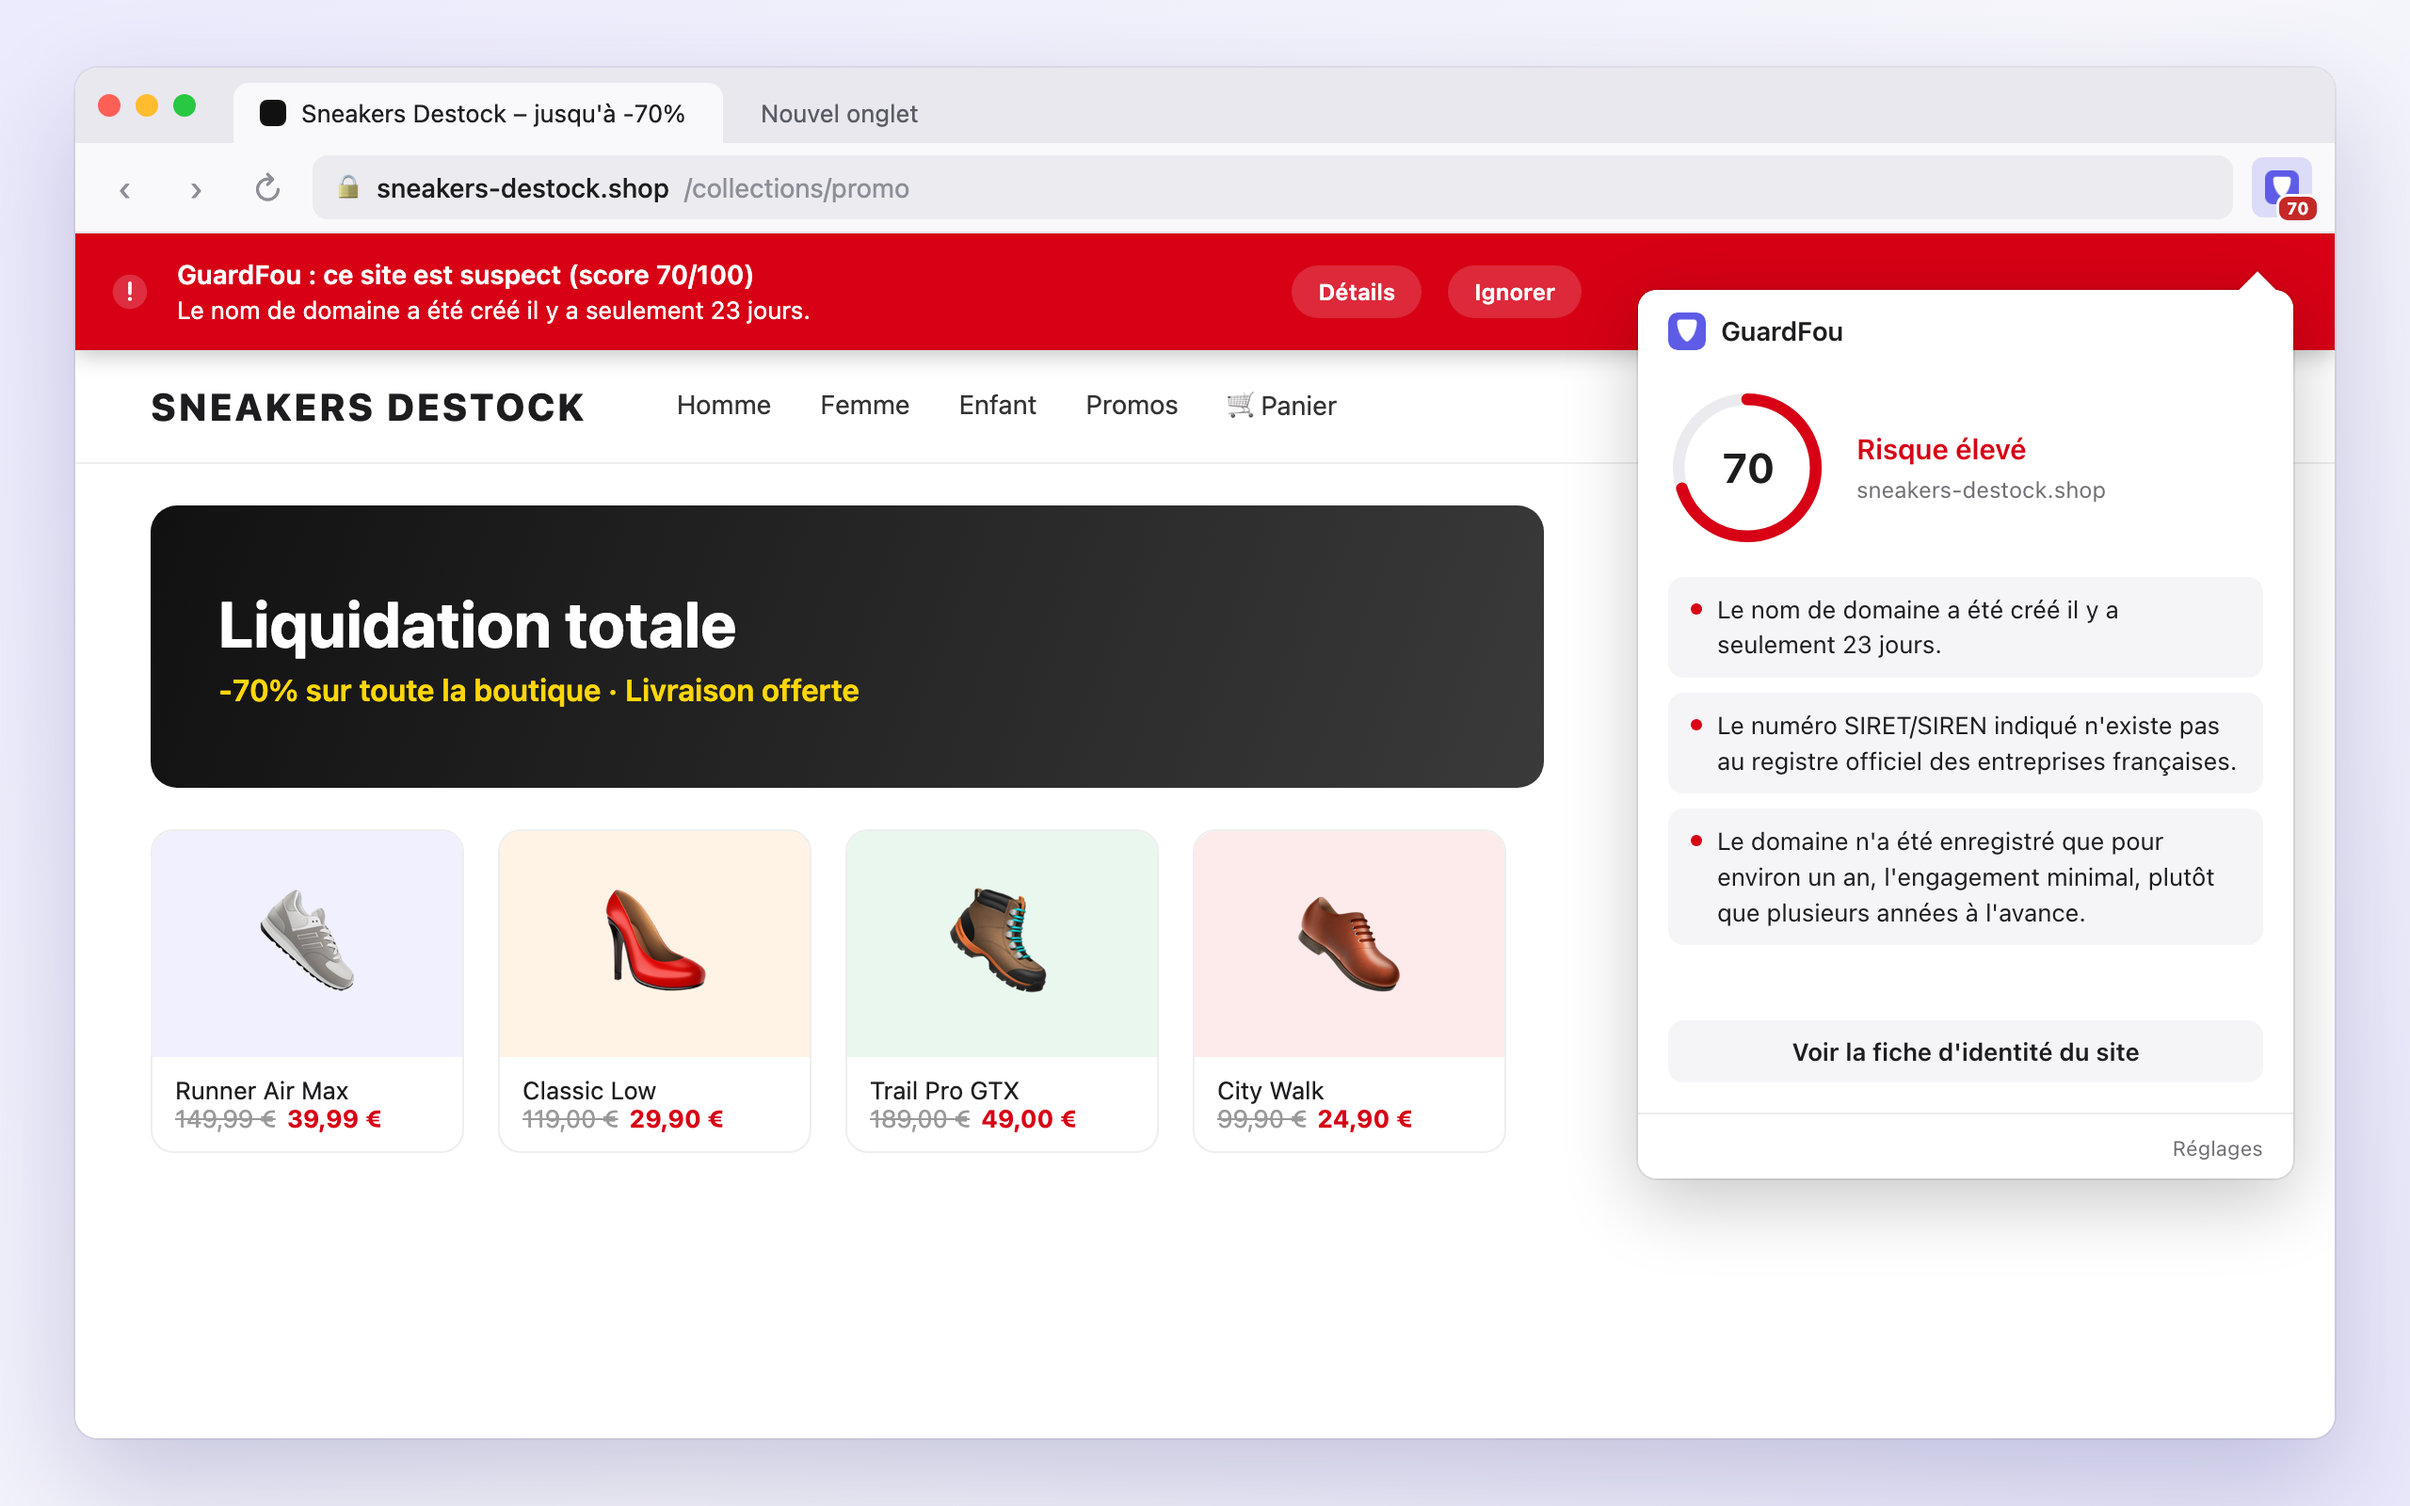
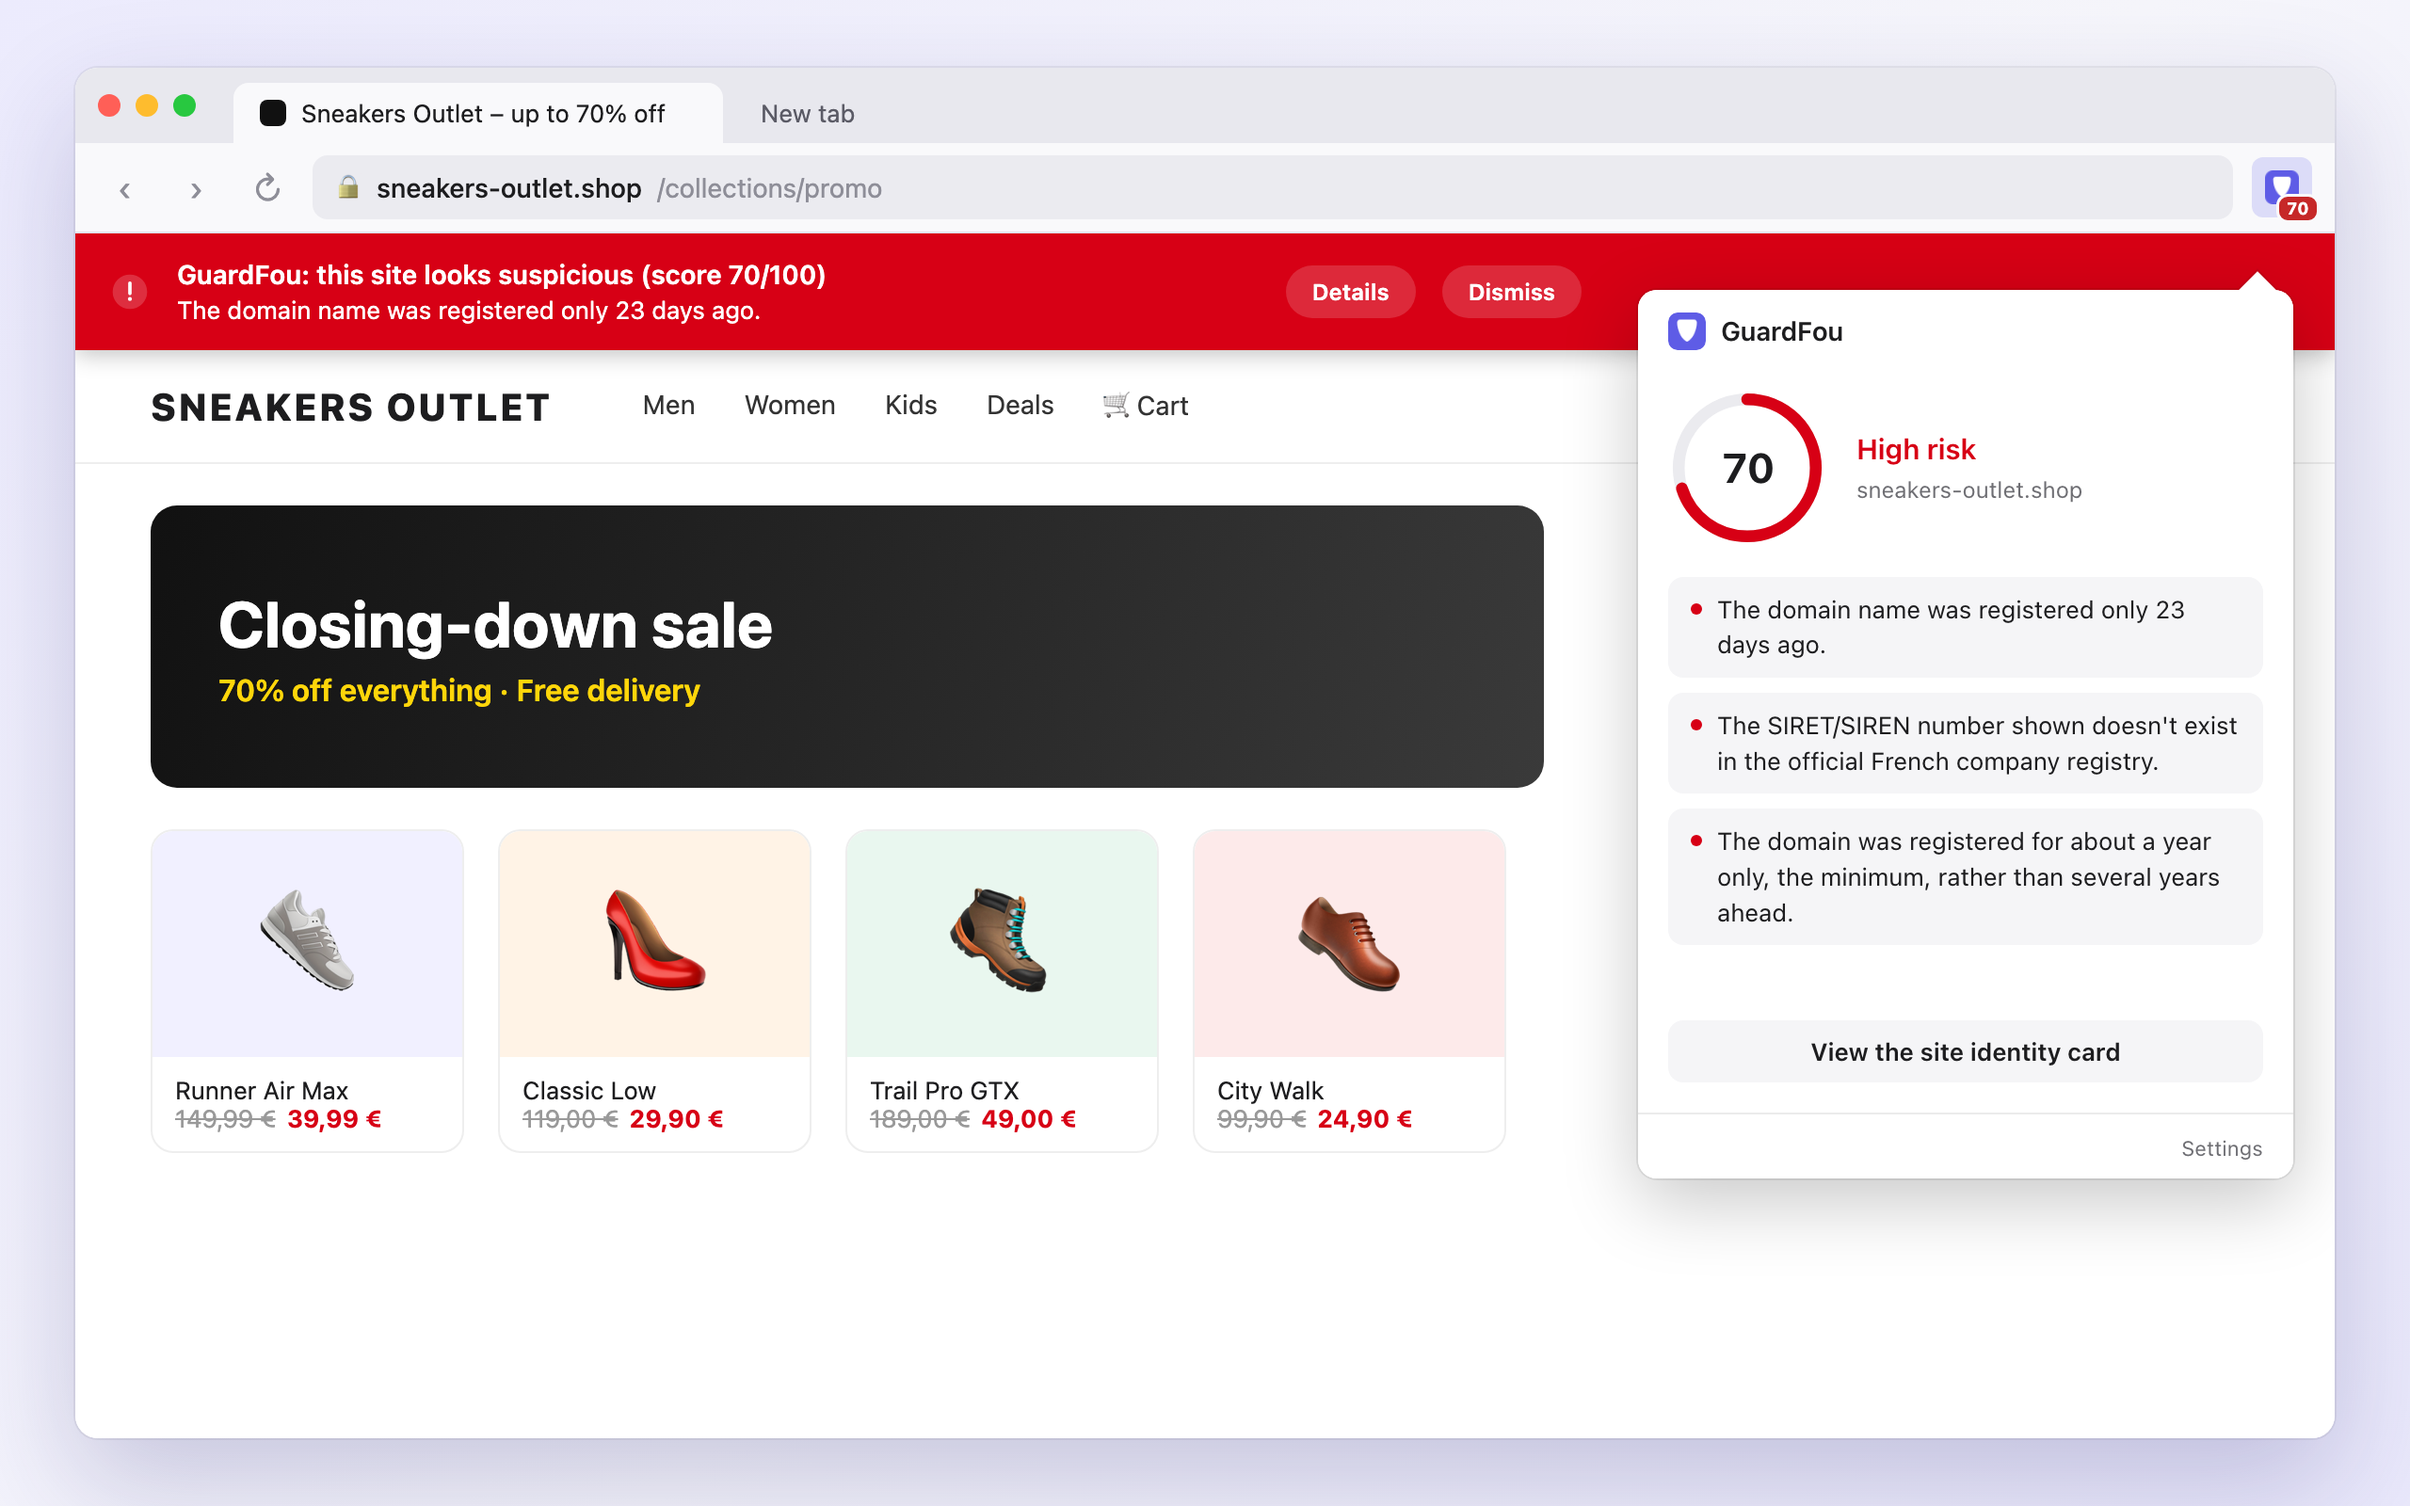
English store screenshot; document the English and French interface
The main screenshot is now the English interface, with a French one
alongside, both rendered from the localized popup.

diff --git a/README.md b/README.md
@@ -40,7 +40,7 @@ No single check proves a site is a scam. The score combines them, and every reas
 
 ### Language
 
-The user interface (popup, settings, warning banner) is currently in French only.
+The interface (popup, settings, warning banner) is available in English and French, and follows Firefox's language, falling back to English. To add a language, copy `_locales/en/messages.json` to `_locales/<code>/messages.json` and translate the messages; the tests check that every locale has the same keys and substitutions.
 
 ## Privacy
 
@@ -83,6 +83,8 @@ src/core/         pure logic: scoring, brand matching, legal-information and SIR
 src/data/         known brands and their official domains, watched registrars
 src/popup/        toolbar popup and identity card
 src/options/      settings page
+src/shared/       styles and the page translation helper
+_locales/         interface text, one messages.json per language
 tests/            unit tests for src/core (node --test)
 ```
 
@@ -106,7 +108,6 @@ The store listing (summary, description, categories, licence) comes from `amo-me
 - Community reports: let users flag scam sites and vouch for trusted ones.
 - More brands in `src/data/brands-fr.js`; contributions welcome.
 - Support for other countries: brand lists, company registries and legal requirements.
-- English user interface.
 - Site popularity and backlinks in the identity card.
 
 Store listing material lives next to the code: `amo-metadata.json` (listing text, sent with every release), `PRIVACY.md` (privacy policy) and `store/` (screenshots).
